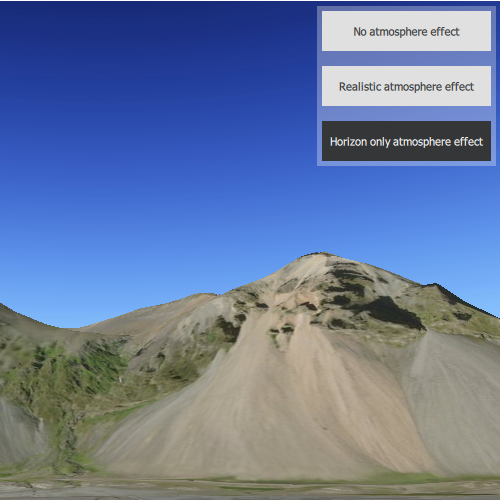
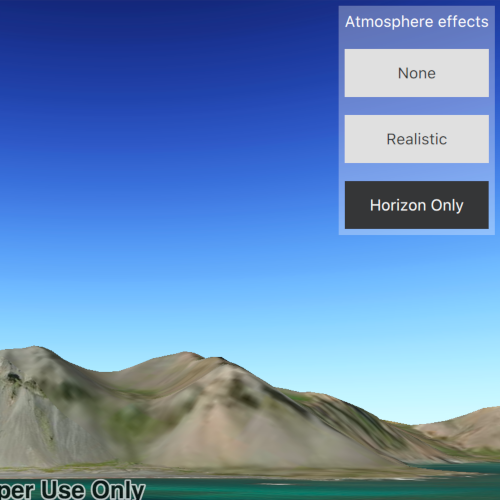
Added heading to the button dialogs. Updated screenshot to match UI tweaks.

diff --git a/ArcGISRuntimeSDKQt_QMLSamples/Scenes/ChangeAtmosphereEffect/ChangeAtmosphereEffect.qml b/ArcGISRuntimeSDKQt_QMLSamples/Scenes/ChangeAtmosphereEffect/ChangeAtmosphereEffect.qml
@@ -93,6 +93,13 @@ Rectangle {
         height: childrenRect.height
         ColumnLayout {
             id: layout
+
+            Text {
+                Layout.margins: 5
+                color: "white"
+                text: "Atmosphere effects"
+            }
+
             Button {
                 id: noAtmosphereButton
                 Layout.margins: 5
@@ -120,7 +127,7 @@ Rectangle {
         }
 
         ButtonGroup {
-            buttons: layout.children
+            buttons: [noAtmosphereButton, realisticAtmosphereButton, horizonAtmosphereButton]
         }
     }
 }

diff --git a/ArcGISRuntimeSDKQt_CppSamples/Scenes/ChangeAtmosphereEffect/ChangeAtmosphereEffect.qml b/ArcGISRuntimeSDKQt_CppSamples/Scenes/ChangeAtmosphereEffect/ChangeAtmosphereEffect.qml
@@ -67,6 +67,13 @@ Item {
         height: childrenRect.height
         ColumnLayout {
             id: layout
+
+            Text {
+                Layout.margins: 5
+                color: "white"
+                text: "Atmosphere effects"
+            }
+
             Button {
                 id: noAtmosphereButton
                 Layout.margins: 5
@@ -94,7 +101,7 @@ Item {
         }
 
         ButtonGroup {
-            buttons: layout.children
+            buttons: [noAtmosphereButton, realisticAtmosphereButton, horizonAtmosphereButton]
         }
     }
 }
